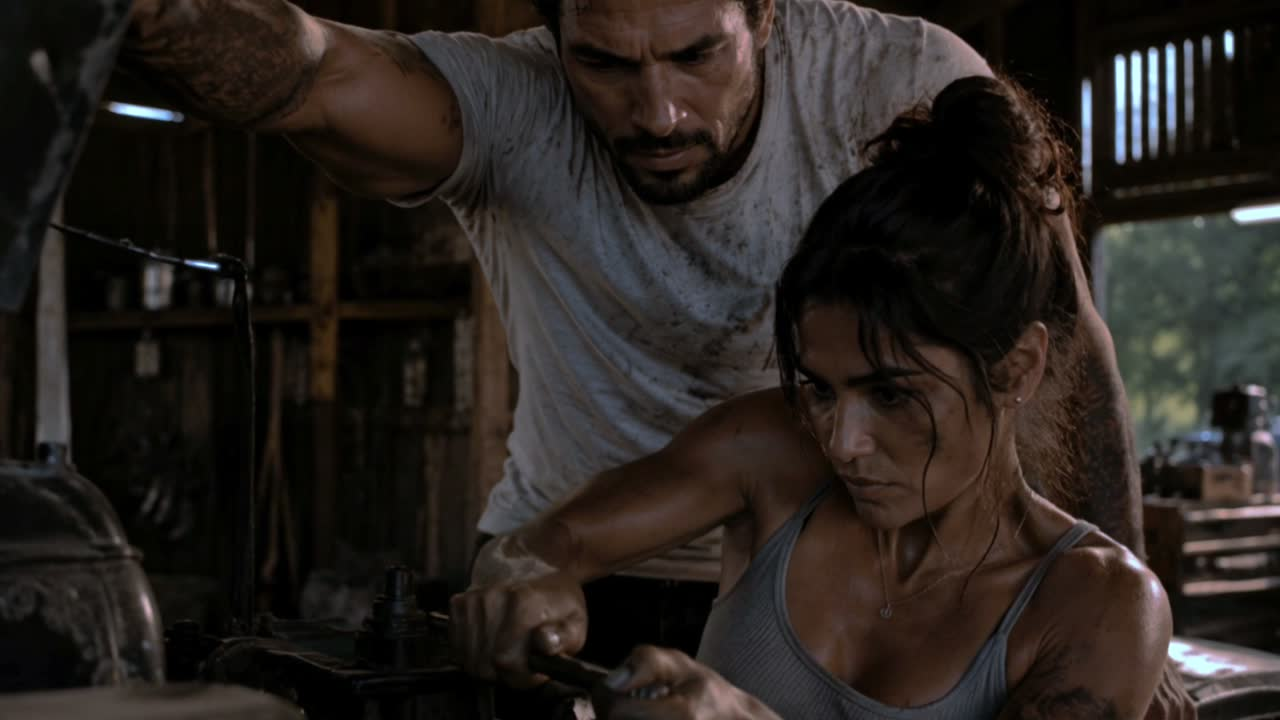
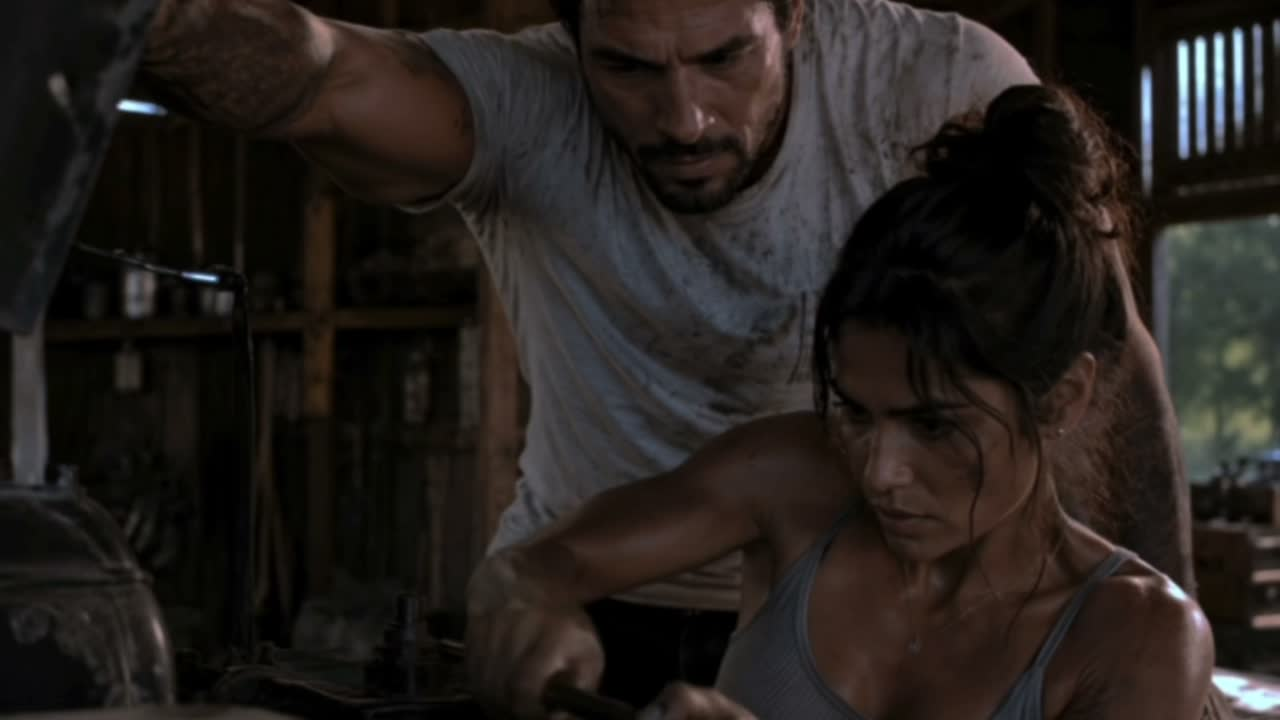
Swap The Bolt to the scored cut, and add "One More" as a 9:16
Melissa delivered two music versions. Verified before touching anything:
transcribed all three and the dialogue is identical — "easy, don't force
it, don't fight it… just give it one more" — so the scored files are the
same edit with her music under it, not a different cut. The landscape one
therefore replaces the scene outright rather than sitting beside it.

The vertical becomes a free clip, "One More", named for the line the
scene turns on. That line now appears in three places from three angles:
the clip is named for it, her journal quotes it as the moment she was
pushed past what she thought she could do, and Josh's set note has it as
the only instruction he gets. Same four words, three different arrivals.

It is also the best 58 seconds on the site to put in front of a stranger:
no context needed, and somebody wins something.

Gallery and journal entry now both cross-link to the clip.

diff --git a/lib/content/clips.ts b/lib/content/clips.ts
@@ -121,6 +121,23 @@ export const clips: Clip[] = [
     mature: true,
   },
   {
+    // The 9:16 of The Bolt, scored. Named for the line it turns on, which is
+    // also the line her journal entry and Josh's set note both quote — the
+    // three pieces say the same four words and arrive at different places.
+    //
+    // Free, and the best thing on the site to put in front of a stranger:
+    // it is 58 seconds, it needs no context, and somebody wins something.
+    id: "one-more",
+    title: "One More",
+    caption:
+      "She can't shift it and she's done arguing about it. He doesn't take the wrench off her.",
+    file: "one-more.proxy.mp4",
+    poster: "/posters/one-more.jpg",
+    durationSeconds: 58,
+    about: ["luna", "josh"],
+    mature: false,
+  },
+  {
     // Free, like the rest of the social cuts. It reads as a mood piece rather
     // than a turn, and it is the shortest route a stranger has to Tyson —
     // which is what the character pages need most.

diff --git a/lib/content/videos.ts b/lib/content/videos.ts
@@ -307,7 +307,10 @@ export const videos: Video[] = [
       "A seized bolt on the tractor, and Luna ready to quit. Josh doesn't take the wrench off her — he tells her to give it one more.",
     file: "josh-luna-bolt.proxy.mp4",
     poster: "/posters/josh-luna-bolt.jpg",
-    durationSeconds: 55,
+    // Scored cut. The dialogue is identical to the unscored master —
+    // "easy, don't force it, don't fight it… just give it one more" — so this
+    // is the same scene with Melissa's music under it, not a different edit.
+    durationSeconds: 57,
     access: "free",
     mature: false,
     feelings: ["trust", "desire"],

diff --git a/lib/content/gallery.ts b/lib/content/gallery.ts
@@ -186,6 +186,7 @@ export const galleries: StillGallery[] = [
     place: "farmhouse",
     about: ["luna", "josh", "tyson"],
     sceneSlug: "josh-luna-bolt",
+    clipId: "one-more",
     journalEntryId: "the-bolt",
     stills: [
       { caption: "Two hours in and neither of them has said anything for a while." },

diff --git a/lib/content/journal.ts b/lib/content/journal.ts
@@ -392,6 +392,7 @@ export const journal: JournalEntry[] = [
     where: "The barn",
     about: ["luna", "josh"],
     sceneSlug: "josh-luna-bolt",
+    clipId: "one-more",
     access: "premium",
     mature: false,
     body: [
